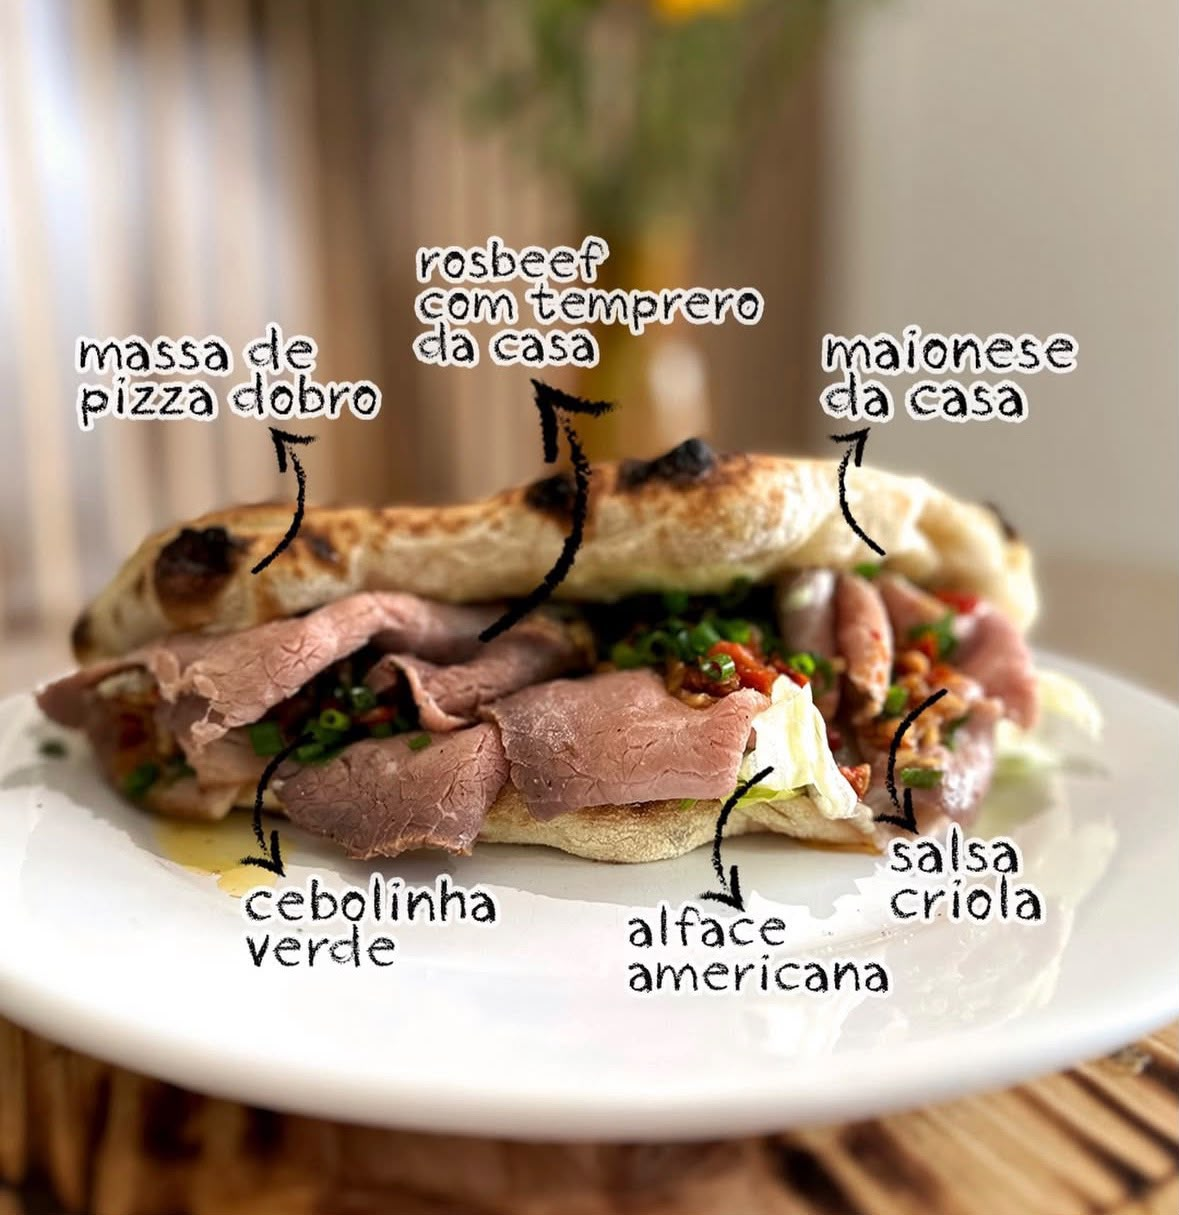
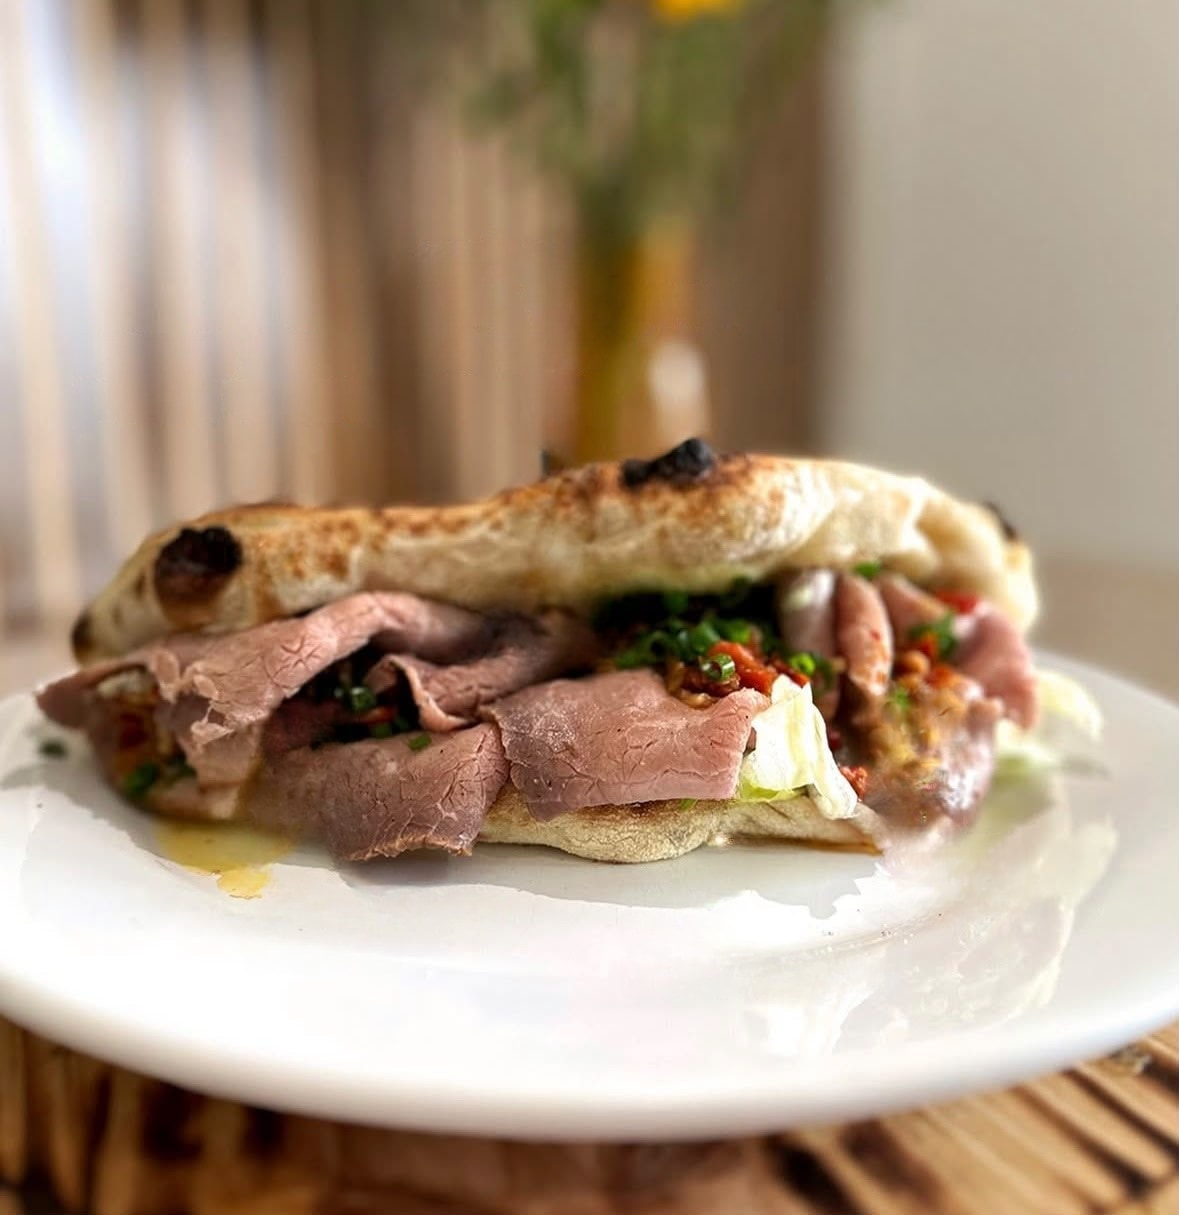
feat(footer): create minimalist standard footer with refined typography and colors

diff --git a/src/components/Footer.tsx b/src/components/Footer.tsx
@@ -1,53 +1,91 @@
-
 import React from 'react';
-import { Instagram, ShieldCheck } from "lucide-react";
-
+import { Instagram, MapPin, Clock, ExternalLink } from "lucide-react";
 
 export default function Footer() {
   return (
-    <footer className="bg-[#1b140e] text-[#e8d8d1] py-12 px-4 mt-8 lg:mt-12 border-t-4 border-[#083d07]">
-      <div className="max-w-7xl mx-auto flex flex-col md:flex-row justify-between items-center gap-6">
-        <div className="text-center md:text-left">
-          <div className="font-extrabold text-white text-2xl flex items-center gap-2 justify-center md:justify-start">
-            <div className="w-9 h-9 bg-[#e8d8d1] rounded-full border border-[#d5af7a] flex items-center justify-center flex-shrink-0 p-1">
-              <img
-                src="/dobro/logo-dobro.png"
-                alt="DOBRO Pizzas"
-                className="w-full h-full object-contain"
-              />
+    <footer className="bg-[#141b14] text-[#e8d8d1] border-t border-[#233124] pt-12 pb-8 px-4 mt-12">
+      <div className="max-w-7xl mx-auto">
+        {/* Main Grid */}
+        <div className="grid grid-cols-1 md:grid-cols-4 gap-8 pb-10 border-b border-[#233124]">
+          {/* Coluna 1: Marca & Conceito */}
+          <div className="space-y-3">
+            <div className="flex items-center gap-2.5">
+              <div className="w-8 h-8 rounded-full bg-[#fdfbf7] p-1 flex items-center justify-center shrink-0">
+                <img
+                  src="/dobro/logo-dobro.png"
+                  alt="DOBRO Pizzas"
+                  className="w-full h-full object-contain"
+                />
+              </div>
+              <span className="font-semibold text-lg text-white tracking-tight font-sans">
+                DOBRO <span className="text-[#d5af7a] font-normal">Pizzas</span>
+              </span>
             </div>
-            <span className="text-[#fdfbf7] font-sans">DOBRO <span className="text-[#d5af7a] font-light">Pizzas</span></span>
+            <p className="text-xs text-[#a89284] leading-relaxed pr-2">
+              Pizzas e sanduíches autorais assados no forno artesanal, com massa de fermentação lenta e ingredientes nobres.
+            </p>
           </div>
-          <p className="text-sm text-[#e4c5b9] mt-2">
-            © 2026 DOBRO Pizzas · Fermentação Natural & Receitas Autorais
-          </p>
-          <div className="flex items-center gap-1.5 text-sm font-medium text-[#d5af7a] mt-2 justify-center md:justify-start">
-            <ShieldCheck className="w-4 h-4 text-emerald-400" />
-            <span>Cardápio Digital Oficial</span>
+
+          {/* Coluna 2: Localização */}
+          <div className="space-y-2.5">
+            <h4 className="text-xs font-semibold uppercase tracking-wider text-[#d5af7a]">
+              Localização
+            </h4>
+            <div className="flex items-start gap-2 text-xs text-[#c4b5aa] leading-relaxed">
+              <MapPin className="w-3.5 h-3.5 text-[#d5af7a] shrink-0 mt-0.5" />
+              <span>
+                Rua Querino Zagonel, 500<br />
+                São José dos Pinhais — PR
+              </span>
+            </div>
+            <p className="text-[11px] text-[#8a7569]">
+              Atendimento exclusivo para Delivery
+            </p>
           </div>
-          <a
-            href="https://www.instagram.com/dobropizza/"
-            target="_blank"
-            rel="noopener noreferrer"
-            className="inline-flex items-center gap-2 text-sm font-medium text-[#d5af7a] mt-2 hover:text-white transition-colors"
-          >
-            <Instagram className="w-5 h-5" />
-            @dobropizza
-          </a>
+
+          {/* Coluna 3: Horários Oficiais */}
+          <div className="space-y-2.5">
+            <h4 className="text-xs font-semibold uppercase tracking-wider text-[#d5af7a]">
+              Horário de Funcionamento
+            </h4>
+            <div className="flex items-start gap-2 text-xs text-[#c4b5aa] leading-relaxed">
+              <Clock className="w-3.5 h-3.5 text-[#d5af7a] shrink-0 mt-0.5" />
+              <div className="space-y-0.5">
+                <p><span className="text-white font-medium">Qua e Qui:</span> 18:30 às 23:00</p>
+                <p><span className="text-white font-medium">Sex e Sáb:</span> 18:30 às 00:00</p>
+                <p className="text-[11px] text-[#8a7569] pt-0.5">Dom, Seg e Ter: Fechado</p>
+              </div>
+            </div>
+          </div>
+
+          {/* Coluna 4: Contato & Redes */}
+          <div className="space-y-2.5">
+            <h4 className="text-xs font-semibold uppercase tracking-wider text-[#d5af7a]">
+              Redes & Contato
+            </h4>
+            <div className="space-y-2">
+              <a
+                href="https://www.instagram.com/dobropizza/"
+                target="_blank"
+                rel="noopener noreferrer"
+                className="inline-flex items-center gap-2 text-xs text-[#c4b5aa] hover:text-white transition-colors group"
+              >
+                <Instagram className="w-3.5 h-3.5 text-[#d5af7a] group-hover:scale-110 transition-transform" />
+                <span>@dobropizza</span>
+                <ExternalLink className="w-2.5 h-2.5 opacity-40 group-hover:opacity-100" />
+              </a>
+            </div>
+            <p className="text-[11px] text-[#8a7569] leading-relaxed">
+              Cardápio digital oficial com pedidos diretos e confirmação instantânea via WhatsApp.
+            </p>
+          </div>
         </div>
-        <div className="text-center">
-          <p className="text-lg md:text-xl font-bold text-[#d5af7a] uppercase tracking-widest font-serif">
-            O Dobro de Sabor • O Dobro de Afeto
-          </p>
-          <p className="text-xs text-[#e4c5b9] mt-1">Massa de fermentação lenta com farinhas selecionadas</p>
-        </div>
-        <div className="text-center md:text-right space-y-1.5 text-sm text-[#e8d8d1]">
-          <p className="font-semibold text-white text-base">
-            Forno Artesanal & Delivery Especial
-          </p>
-          <p className="text-xs text-[#d5af7a]">Ingredientes frescos e selecionados todos os dias</p>
-          <p className="text-xs text-[#a89284] pt-1">
-            Pedidos online pelo cardápio com confirmação ágil
+
+        {/* Linha Inferior Minimalista */}
+        <div className="pt-6 flex flex-col sm:flex-row items-center justify-between gap-3 text-[11px] text-[#8a7569]">
+          <p>© {new Date().getFullYear()} DOBRO Pizzas. Todos os direitos reservados.</p>
+          <p className="tracking-wide">
+            São José dos Pinhais · Paraná
           </p>
         </div>
       </div>

diff --git a/src/App.tsx b/src/App.tsx
@@ -617,17 +617,17 @@ function App() {
                 </span>
               ) : (
                 <span className="text-stone-600 flex items-center gap-1">
-                  🛵 Falta <strong className="text-[#8b0000]">€{(FREE_DELIVERY_THRESHOLD - totalCartPrice).toFixed(2)}</strong> para <strong>Entrega Grátis</strong>
+                  🛵 Falta <strong className="text-[#083d07]">R$ {(FREE_DELIVERY_THRESHOLD - totalCartPrice).toFixed(2).replace('.', ',')}</strong> para <strong>Entrega Grátis</strong>
                 </span>
               )}
-              <span className="text-stone-400 font-medium text-[10px]">Meta: €{FREE_DELIVERY_THRESHOLD.toFixed(2)}</span>
+              <span className="text-stone-400 font-medium text-[10px]">Meta: R$ {FREE_DELIVERY_THRESHOLD.toFixed(2).replace('.', ',')}</span>
             </div>
             <div className="w-full h-1.5 bg-stone-100 rounded-full overflow-hidden border border-stone-200/60">
               <div 
                 className={`h-full transition-all duration-500 rounded-full ${
                   totalCartPrice >= FREE_DELIVERY_THRESHOLD
                     ? "bg-emerald-500 shadow-[0_0_8px_rgba(16,185,129,0.5)]"
-                    : "bg-gradient-to-r from-amber-400 to-[#d4af37]"
+                    : "bg-gradient-to-r from-[#d5af7a] to-[#083d07]"
                 }`}
                 style={{ width: `${Math.min(100, Math.round((totalCartPrice / FREE_DELIVERY_THRESHOLD) * 100))}%` }}
               />
@@ -639,7 +639,7 @@ function App() {
               hapticMedium();
               setIsCartOpen(true);
             }}
-            className="w-full bg-[#8b0000] text-white font-extrabold text-[15px] py-3.5 px-4 rounded-xl flex items-center justify-between shadow-xl active:scale-[0.98] transition-all hover:bg-[#660000]"
+            className="w-full bg-[#083d07] text-[#fdfbf7] font-bold text-[15px] py-3.5 px-4 rounded-xl flex items-center justify-between shadow-xl active:scale-[0.98] transition-all hover:bg-[#052904]"
           >
             <div className="flex items-center gap-2">
               <div className={`relative transition-transform duration-300 ${cartBounce ? 'scale-125 rotate-6' : 'scale-100'}`}>
@@ -671,11 +671,11 @@ function App() {
               window.scrollTo({ top: 0, behavior: "smooth" });
             }
           }}
-          className="fixed bottom-24 lg:bottom-8 left-4 sm:left-6 w-12 h-12 bg-white/95 backdrop-blur-md text-[#8b0000] rounded-full flex items-center justify-center shadow-lg border border-stone-200 hover:bg-[#8b0000] hover:text-white transition-all active:scale-95 z-30 group"
+          className="fixed bottom-24 lg:bottom-10 left-4 sm:left-6 w-11 h-11 bg-white/95 backdrop-blur-md text-[#083d07] rounded-full flex items-center justify-center shadow-lg border border-[#e8d8d1] hover:bg-[#083d07] hover:text-[#fdfbf7] transition-all active:scale-95 z-30 group"
           title="Voltar ao topo do cardápio"
           aria-label="Voltar ao topo do cardápio"
         >
-          <ArrowUp className="w-5 h-5 transition-transform group-hover:-translate-y-0.5" />
+          <ArrowUp className="w-4 h-4 transition-transform group-hover:-translate-y-0.5" />
         </button>
       )}
 

diff --git a/src/data/menu.ts b/src/data/menu.ts
@@ -15,8 +15,8 @@ export const menuData: MenuItem[] = [
   {id: 'p-dobro-classica', name: 'Clássica Dobro', ingredients: 'A clássica margherita elevada: molho rústico de tomates pelados, mozzarella farta, tomatinhos cereja doces confitados e folhas frescas de manjericão aromático.', priceP: 13.9, priceM: 15.9, priceG: 19.9, category: 'tradicionais', imageUrl: '/dobro/classica.jpeg', isBestseller: true},
   {id: 'p-dobro-avelamorango', name: 'Avelã, Morango & Amor', ingredients: 'Massa doce artesanal crocante, camada farta do mais puro creme nobre de cacau e avelãs, fatias frescas de morangos suculentos selecionados e lascas tostadas de amêndoas.', priceP: 15.9, priceM: 17.9, priceG: 21.9, category: 'doces', imageUrl: '/dobro/avela-morango-amor.jpeg', isBestseller: true},
   // --- DOBRO PIZZAS: SANDUBAS ARTESANAIS ---
-  {id: 's-dobro-elisabet', name: 'Sanduba Elisabet', ingredients: 'Massa artesanal de pizza Dobro assada na hora, fatias suculentas de rosbife com tempero especial da casa, maionese artesanal da casa, salsa criola, alface americana crocante e toque de cebolinha verde.', priceSingle: 32.0, category: 'sandubas', imageUrl: '/dobro/sanduba-elisabet.jpeg', isBestseller: true},
-  {id: 's-dobro-parma', name: 'Sanduba de Parma', ingredients: 'Massa artesanal de pizza Dobro assada na hora, lâminas de presunto de Parma nobre, mussarela de búfala fresca, molho pesto aromático, tomatinhos cereja confit e rúcula fresca selecionada.', priceSingle: 35.0, category: 'sandubas', imageUrl: '/dobro/sanduba-parma.jpeg', isBestseller: true},
+  {id: 's-dobro-elisabet', name: 'Sanduba Elisabet', ingredients: 'Massa artesanal de pizza Dobro assada na hora, fatias suculentas de rosbife com tempero especial da casa, maionese artesanal da casa, salsa criola, alface americana crocante e toque de cebolinha verde.', priceSingle: 32.0, category: 'sandubas', imageUrl: '/dobro/sanduba-elisabet.jpeg', isBestseller: false},
+  {id: 's-dobro-parma', name: 'Sanduba de Parma', ingredients: 'Massa artesanal de pizza Dobro assada na hora, lâminas de presunto de Parma nobre, mussarela de búfala fresca, molho pesto aromático, tomatinhos cereja confit e rúcula fresca selecionada.', priceSingle: 35.0, category: 'sandubas', imageUrl: '/dobro/sanduba-parma.jpeg', isBestseller: false},
 ];
 
 export const RESTAURANT_WHATSAPP_PHONE = "351938360931";
